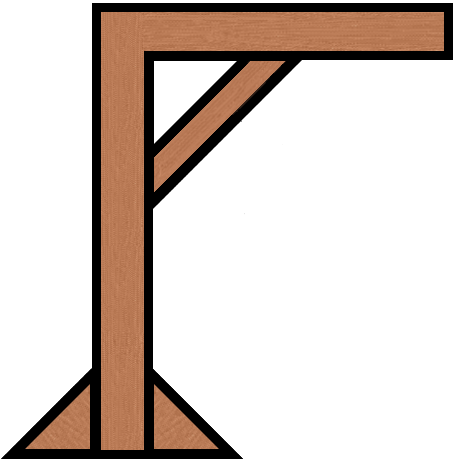
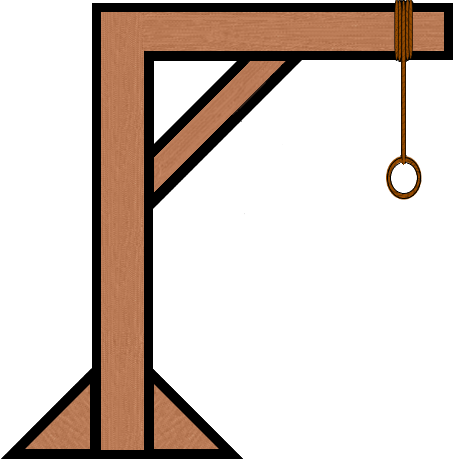
main game functionality implemented, still some bugs to wax out

Changed region(s): [[0.8308, 0.0, 0.9538, 0.4555]]

diff --git a/assets/styles.css b/assets/styles.css
@@ -1,17 +1,71 @@
 :root {
-  --primary-color: rgb(185, 177, 223);
+  --background-color: rgb(185, 175, 225);
+  --primary-color: rgb(185, 75, 75);
+  --secondary-color: rgb(175, 225, 185);
+  --teritary-color: rgb(175, 225, 225);
+  --primary-hover: rgb(235, 135, 135);
+  --secondary-hover: rgb(225, 255, 235);
+  --teritary-hover: rgb(225, 255, 255);
+  --primary-active: rgb(125, 25, 25);
+  --secondary-active: rgb(125, 175, 135);
+  --teritary-active: rgb(125, 175, 175);
+  --disabled: rgb(155, 155, 155);
 }
 
 body {
-  background-color: var(--primary-color);
+  background-color: var(--background-color);
+}
+.startContainer {
+  height: 100vh;
+  width: 100vw;
+  background-color: rgb(0 0 0 / 25%);
+  position: fixed;
+}
+.startButton {
+  width: 800px;
+  height: 400px;
+  background-color: rgb(0, 125, 0);
+  color: white;
+  font-size: 100px;
+  font-weight: 900;
+  letter-spacing: 20px;
+  border-radius: 100px;
+  position: fixed;
+  top: 20vh;
+  left: 20vw;
+  border: 20px solid rgb(0 0 0 / 25%);
+  z-index: 10000;
+  opacity: 1;
+  display: flex;
+  justify-content: space-around;
+  align-items: center;
+  box-shadow: 40px 40px 15px rgb(0 0 0 / 25%);
+  user-select: none;
+}
+.startButton:hover {
+  background-color: rgb(0, 140, 0);
+}
+.startButton:active {
+  background-color: rgb(0, 100, 0);
+}
+
+.gameWindow {
+  display: none;
+  opacity: 0;
 }
 
 .stickman_parts {
-  width: 170px;
-  height: 359px;
+  width: 0;
+  height: 0;
   position: absolute;
   top: calc(31vh - (359px / 2));
-  left: calc(27vw - (170px / 2));
+  left: calc(27.5vw - (170px / 2));
+}
+.hangmanPiece {
+  position: absolute;
+  top: 182px;
+  left: 385px;
+  z-index: 1000;
 }
 .buttonParent {
   position: absolute;
@@ -22,6 +76,44 @@ body {
   align-items: center;
   justify-content: space-between;
 }
+
 .buttonContainer button {
+  box-shadow: 3px 3px 5px rgb(0 0 0 / 75%);
   margin: 5px;
+  width: 56px;
+  height: 56px;
+  border-radius: 100%;
+  background-color: var(--primary-color);
+  border: none;
+  color: white;
+  font-size: large;
+}
+.buttonContainer button:active {
+  box-shadow: 2px 2px 5px rgb(0 0 0 / 75%);
+  background-color: var(--primary-active) !important;
+  transition: background-color 0.05s ease-in-out;
+}
+.buttonContainer button:hover {
+  background-color: var(--primary-hover);
+  transition: background-color 0.05s ease-in-out;
+}
+.buttonContainer button:disabled {
+  box-shadow: 2px 2px 5px rgb(0 0 0 / 75%);
+  background-color: var(--disabled);
+  transition: background-color 10ms ease-in-out;
+}
+.wordContainer {
+  font-size: 5rem;
+  height: 60px;
+  width: auto;
+  display: flex;
+  flex-direction: row;
+  margin: 0 40% 0 0;
+  justify-content: space-evenly;
+  align-items: flex-end;
+}
+.wordContainer span {
+  margin: 2px;
+  font-weight: bolder;
+  color: white;
 }

diff --git a/index.html b/index.html
@@ -10,10 +10,15 @@
     <title>Hangman's Revenge</title>
 </head>
 <body>
-    <img class="gallows" src="./assets/img/Gallows.png">
-    <img class="stickman_parts">
-    <div class="buttonParent">
-        
+    <div class="startContainer">
+        <div class="startButton"><span>START</span></div>
+    </div>
+    <div class="gameWindow">
+        <img class="gallows" src="./assets/img/Gallows.png">
+        <img class="stickman_parts">
+        <img class="hangmanPiece" src="./assets/img/hangmanPiece.png">
+        <div class="wordContainer"></div>
+        <div class="buttonParent"></div>
     </div>
     <script src="https://code.jquery.com/jquery-3.6.0.min.js"
         integrity="sha256-/xUj+3OJU5yExlq6GSYGSHk7tPXikynS7ogEvDej/m4=" crossorigin="anonymous"></script>
